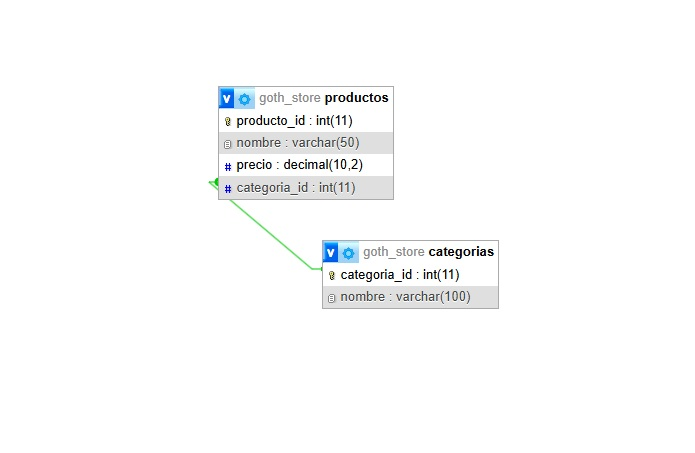
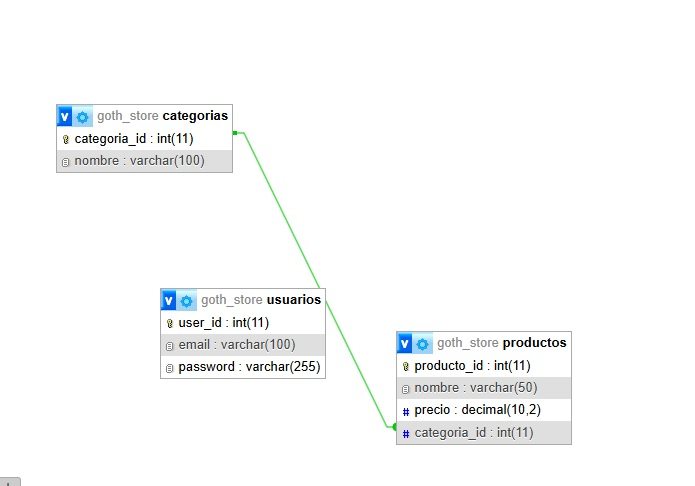
diagrama completo y export sql nuevo con usuario

diff --git a/app/models/UsuarioModel.php b/app/models/UsuarioModel.php
@@ -5,7 +5,7 @@ require_once 'app/models/Model.php';
 class UsuarioModel extends Model {
 
     public function obtenerPorEmail($email) {
-        $query = $this->db->prepare("SELECT * FROM users WHERE email = ?");
+        $query = $this->db->prepare("SELECT * FROM usuarios WHERE email = ?");
         $query->execute([$email]);
 
         return $query->fetch(PDO::FETCH_OBJ);

diff --git a/app/controllers/AuthController.php b/app/controllers/AuthController.php
@@ -21,7 +21,6 @@ class AuthController {
 
         $user = $this->model->obtenerPorEmail($email);
 
-        // PDF: password_verify :contentReference[oaicite:2]{index=2}
         if ($user && password_verify($password, $user->password)) {
 
             session_start();
